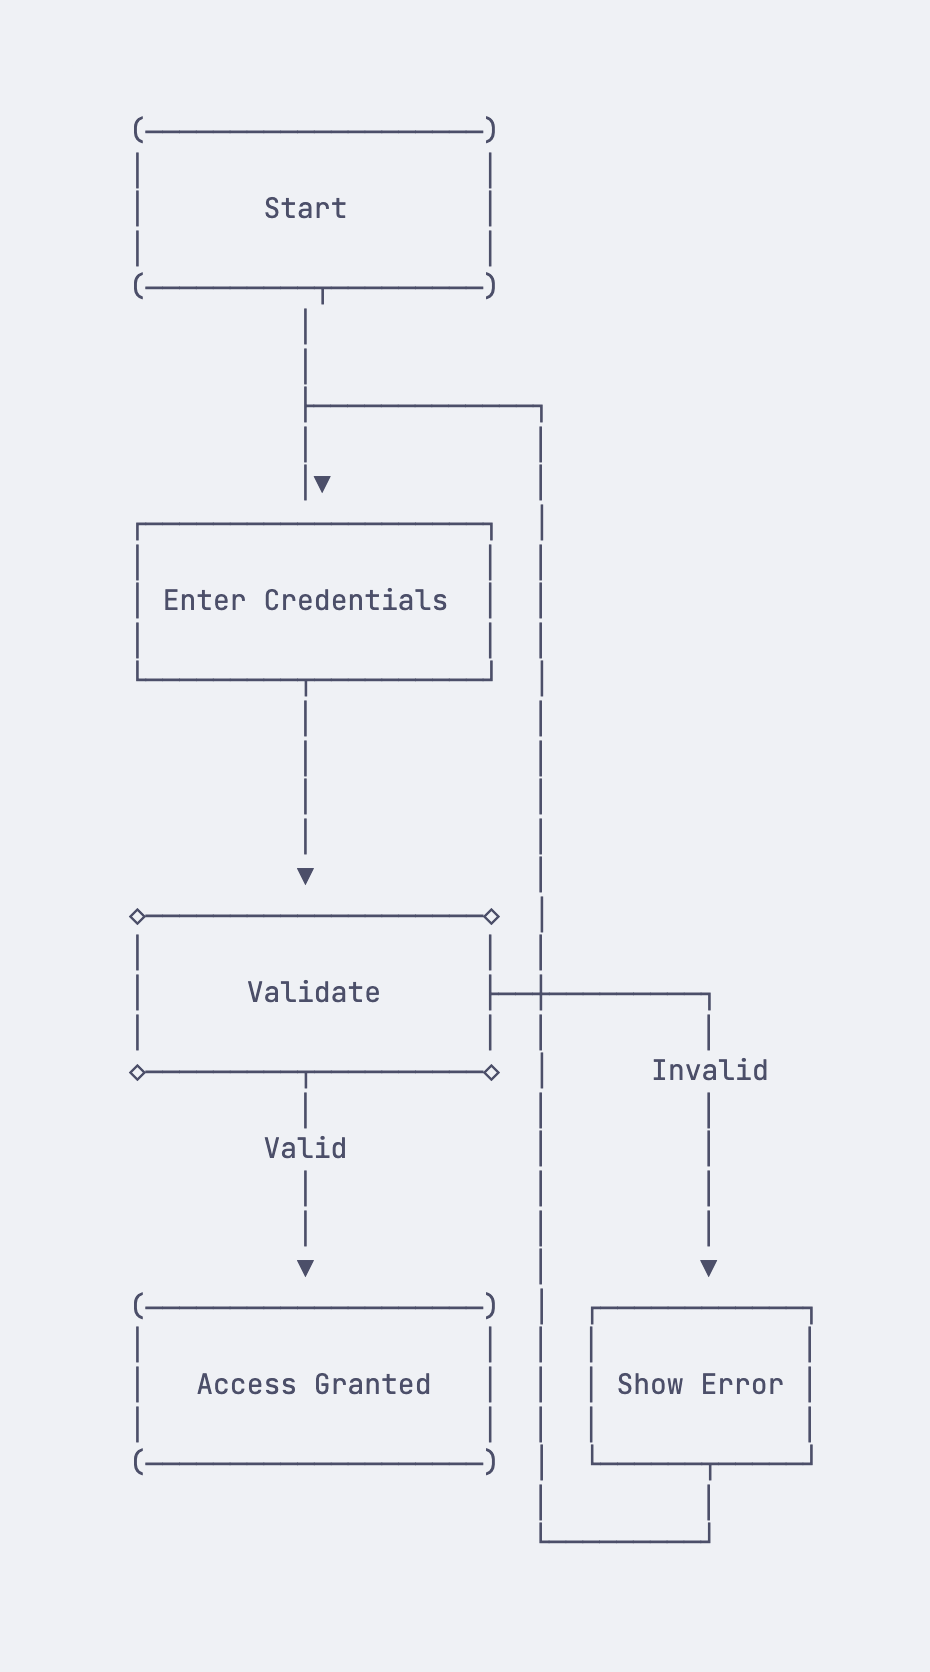
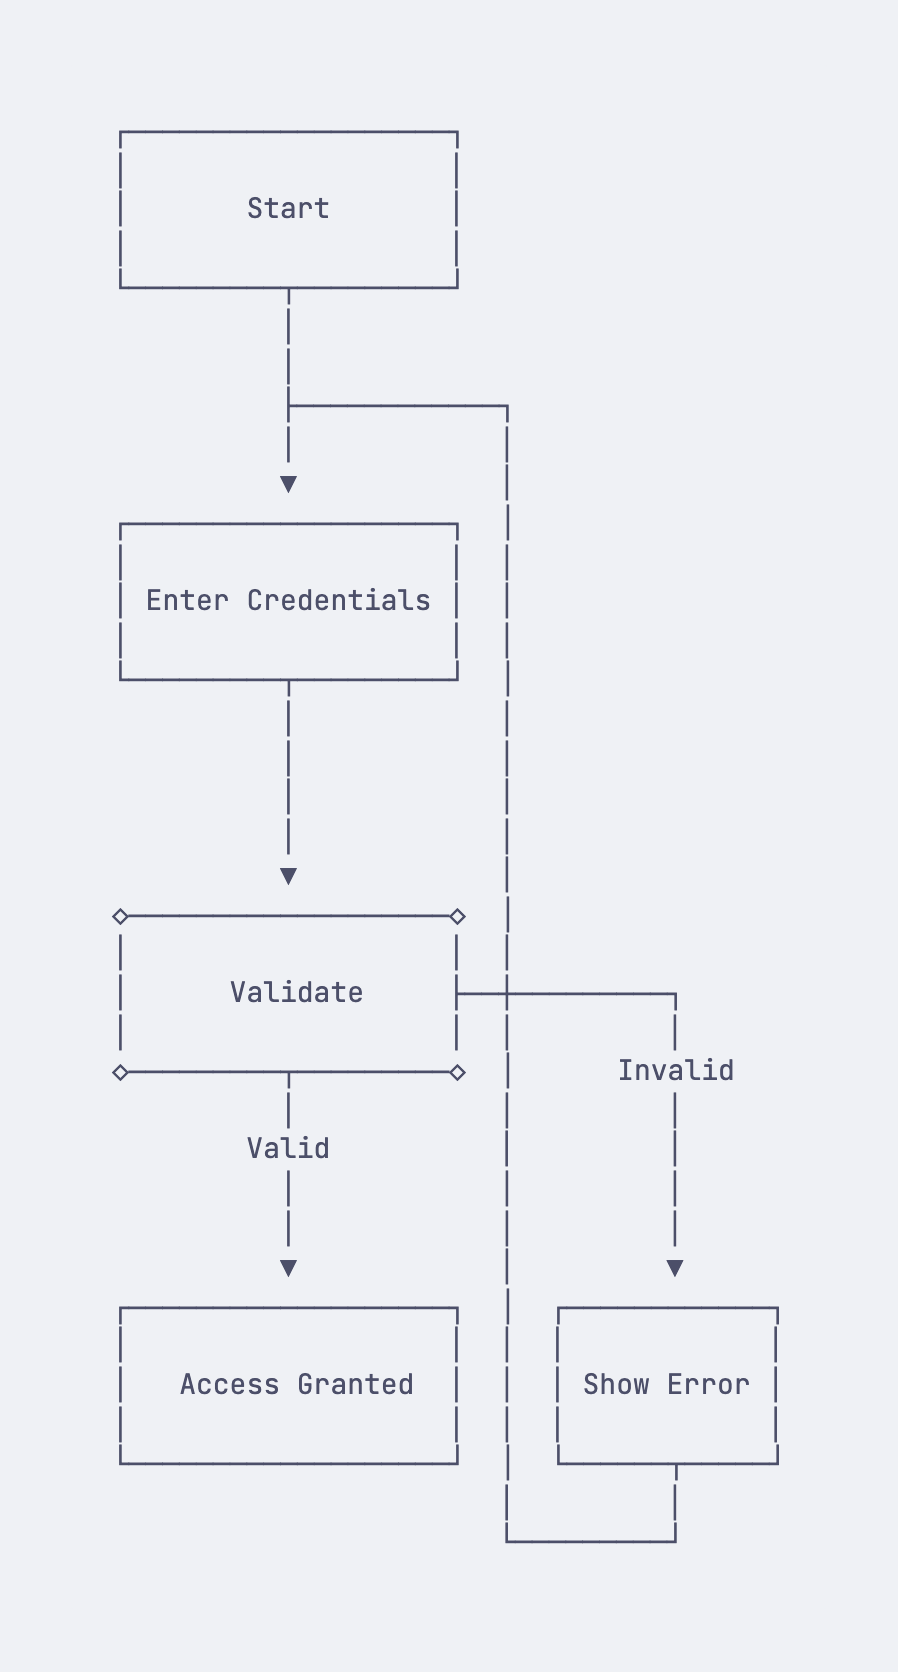
fix: simplify flowchart nodes, regenerate all screenshots
Removes stadium shapes that caused ASCII rendering artifacts.
All screenshots now use light theme consistently.

diff --git a/scripts/screenshots.ts b/scripts/screenshots.ts
@@ -16,9 +16,9 @@ import { resolve } from 'path'
 // ── Diagram sources ──────────────────────────────────────────────────
 
 const FLOWCHART_SOURCE = `graph TD
-  Start([Start]) --> Creds[Enter Credentials]
+  Start[Start] --> Creds[Enter Credentials]
   Creds --> Validate{Validate}
-  Validate -->|Valid| Success([Access Granted])
+  Validate -->|Valid| Success[Access Granted]
   Validate -->|Invalid| Retry[Show Error]
   Retry --> Creds`
 
